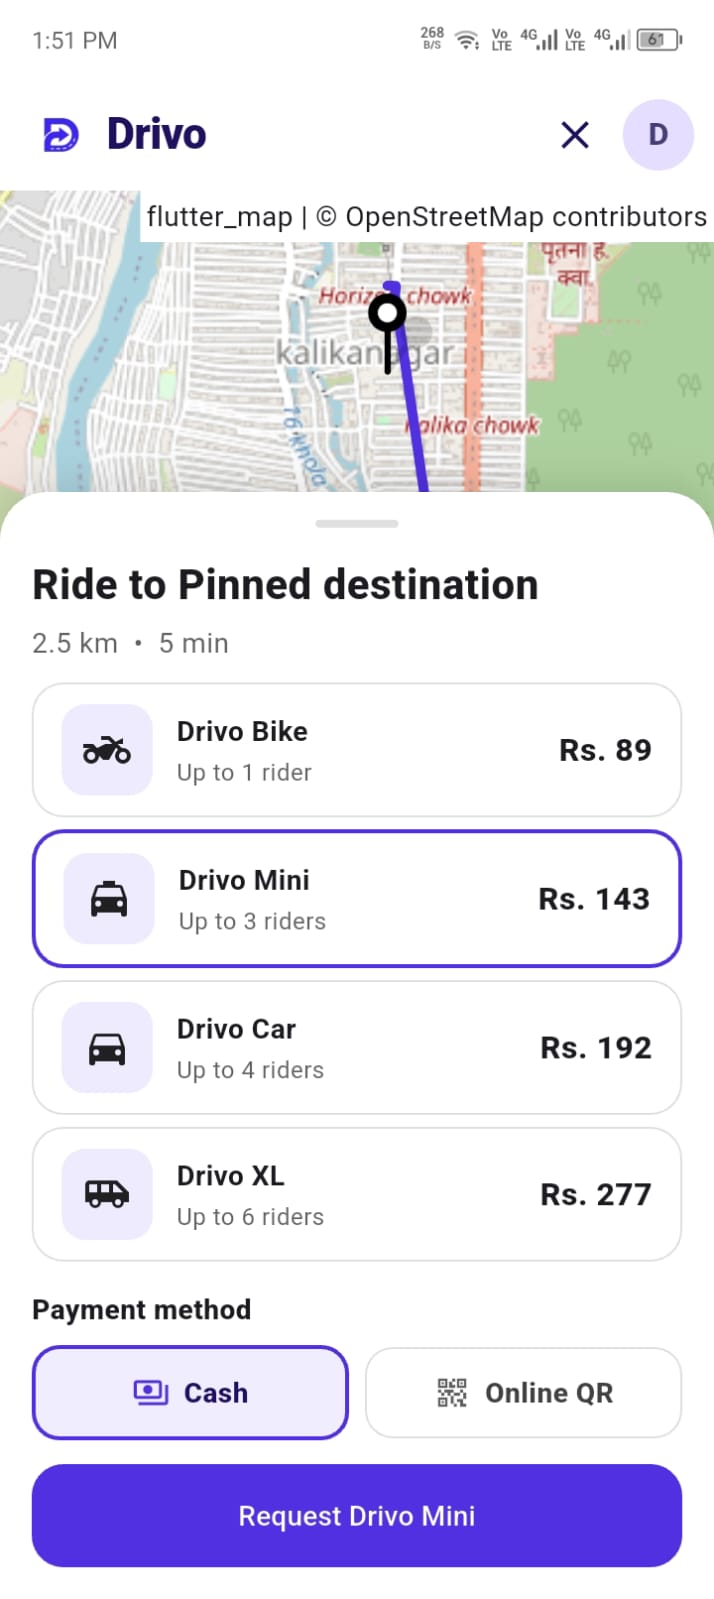
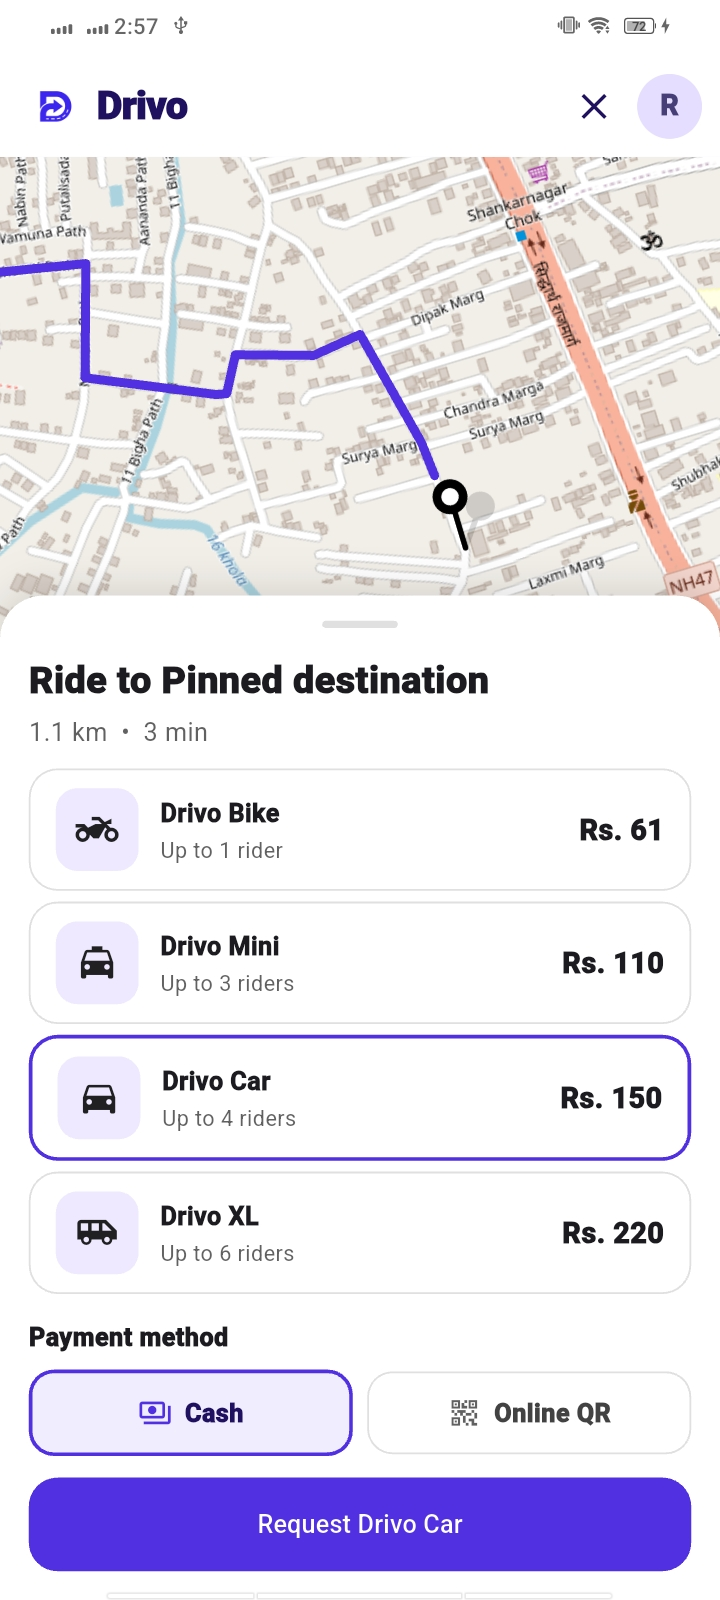
docs images changed - passenger flow

Changed region(s): [[0.0, 0.0, 1.0, 0.9806], [0.9552, 0.6742, 0.986, 0.7048], [0.5854, 0.0, 0.6162, 0.0306]]

diff --git a/readme.md b/readme.md
@@ -392,7 +392,7 @@ Do not commit:
 
 ## Project status
 
-Drivo is a portfolio/demo product designed to demonstrate marketplace architecture, realtime state, geospatial dispatch, role-based workflows and polished mobile UX.
+Drivo is a portfolio/demo product designed to demonstrate marketplace architecture, realtime state, geospatial dispatch, role based workflows and polished mobile UX.
 
 ## License
 
